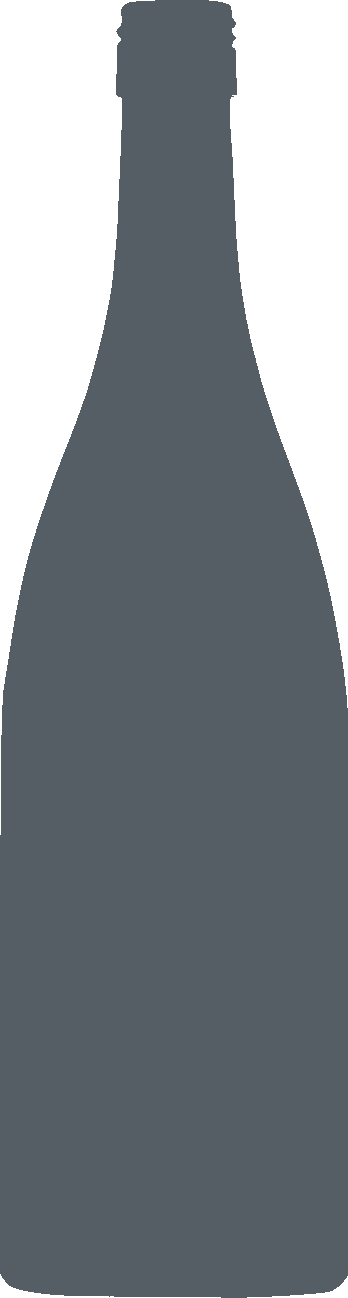
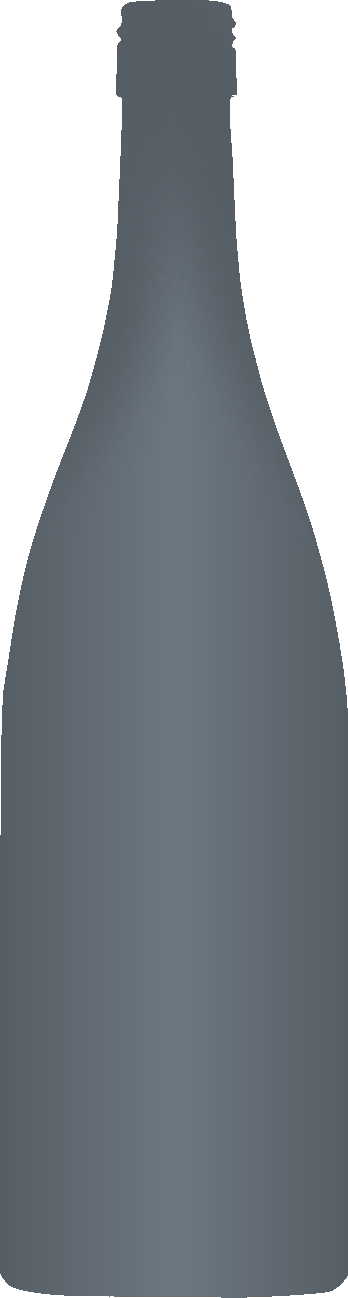
Updated images and fixed preview updates

Changed region(s): [[0.431, 0.2773, 0.5747, 1.0]]

diff --git a/client/src/components/measurementsForm.vue b/client/src/components/measurementsForm.vue
@@ -319,14 +319,17 @@
                 var maxHeight;
                 if ((this.labelId == 'F1' && this.globalPositions.activeLabels.includes('F2')) || 
                     (this.labelId == 'B1' && this.globalPositions.activeLabels.includes('B2'))) { // If X1 label and X2 label exists
-                    maxHeight = this.bottleSpec[type].maxHeight - CONSTANTS.minVerticalLabelGap[type] - CONSTANTS.minLabelHeight;
+                    maxHeight = this.bottleSpec[type].maxHeight - CONSTANTS.minVerticalLabelGap.recomended - CONSTANTS.minLabelHeight - 4; // -4 to account for extra potential drift
                 } else if (this.labelId == 'F2' || this.labelId == 'B2') {  // If label is an X2
-                    maxHeight = this.bottleSpec[type].maxHeight - CONSTANTS.minVerticalLabelGap[type] - CONSTANTS.minLabelHeight;
+                    maxHeight = this.bottleSpec[type].maxHeight - CONSTANTS.minVerticalLabelGap.recomended - CONSTANTS.minLabelHeight;
 
                     if (this.globalPositions[this.side][this.labelId[0] + '1'] != null) {   // if the measurements for X1 exist
                         const X1 = this.globalPositions[this.side][this.labelId[0] + '1'];
                         if (X1.height != '' && X1.height > CONSTANTS.minLabelHeight) {  // If the height exists and it is greater than the min height
                             maxHeight -= X1.height - CONSTANTS.minLabelHeight;
+                        }
+                        if (X1.heightOffset != '') {
+                            maxHeight -= X1.heightOffset - this.bottleSpec.recomended.minHeightOffset;
                         }
                     }
                 } else {
@@ -348,17 +351,21 @@
                 var maxHeightOffset;
                 const X1 = this.globalPositions[this.side][this.labelId[0]+'1'];
                 if (this.labelId[1] != 1 && X1 != null) {
-                    maxHeightOffset = this.bottleSpec[type].maxHeight - (X1.height + X1.heightOffset - this.bottleSpec[type].minHeightOffset) - CONSTANTS.minVerticalLabelGap[type] - CONSTANTS.minLabelHeight;
+                    maxHeightOffset = this.bottleSpec[type].maxHeight - (X1.height + X1.heightOffset - this.bottleSpec.recomended.minHeightOffset) - CONSTANTS.minVerticalLabelGap.recomended - CONSTANTS.minLabelHeight;
 
                     if (this.height !== null && this.height >= CONSTANTS.minLabelHeight) {
                         maxHeightOffset -= this.height - CONSTANTS.minLabelHeight;
                     }
+
+                    if (maxHeightOffset < CONSTANTS.minVerticalLabelGap.recomended) {
+                        maxHeightOffset = CONSTANTS.minVerticalLabelGap.recomended;
+                    }
                 } else {
                     if ((this.labelId == 'F1' && this.globalPositions.activeLabels.includes('F2')) || 
                         (this.labelId == 'B1' && this.globalPositions.activeLabels.includes('B2'))) { // If X1 label and X2 label exists
-                        maxHeightOffset = this.bottleSpec[type].maxHeight + this.bottleSpec[type].minHeightOffset - CONSTANTS.minLabelHeight - CONSTANTS.minLabelHeight - CONSTANTS.minVerticalLabelGap[type]
+                        maxHeightOffset = this.bottleSpec[type].maxHeight + this.bottleSpec.recomended.minHeightOffset - CONSTANTS.minLabelHeight - CONSTANTS.minLabelHeight - CONSTANTS.minVerticalLabelGap.recomended
                     } else {
-                        maxHeightOffset = this.bottleSpec[type].maxHeight + this.bottleSpec[type].minHeightOffset - CONSTANTS.minLabelHeight;
+                        maxHeightOffset = this.bottleSpec[type].maxHeight + this.bottleSpec.recomended.minHeightOffset - CONSTANTS.minLabelHeight;
                     }
                     if (this.height !== null && this.height >= CONSTANTS.minLabelHeight) {
                         maxHeightOffset -= this.height - CONSTANTS.minLabelHeight;

diff --git a/client/src/App.vue b/client/src/App.vue
@@ -143,7 +143,7 @@
             <div class="layer-3 labelPreview" id='labelPreviewOverflowRight2'></div>
 
             <transition name="slide-fade">
-              <img v-if="bottleType == 'Burgundy' && bottleSpec" class="image layer-1" alt="bottle sihouette" src="./assets/Bottle silhouettes/BRG_image_alt.png">
+              <img v-if="bottleType == 'Burgundy' && bottleSpec" class="image layer-1" alt="bottle sihouette" src="./assets/Bottle silhouettes/BRG_image.png">
             </transition>
             <transition name="slide-fade">
               <img v-if="bottleType == 'Bordeaux' && bottleSpec" class="image layer-1" alt="bottle sihouette" src="./assets/Bottle silhouettes/BDX_image.png">
@@ -439,6 +439,9 @@
 
         this.globalPositions.latest.id = 'global';
 
+        this.clearPreview();
+        this.updatePreview();
+
         this.checkGlobalInvalid();
       },
 
@@ -619,6 +622,7 @@
           case 2:
         }
         if (this.bottleSpec != null) {
+          this.clearPreview();
           this.updatePreview();
         }
       },
